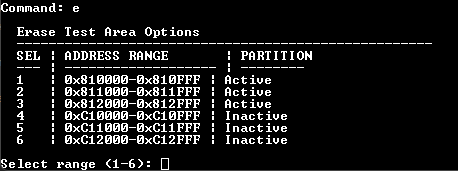
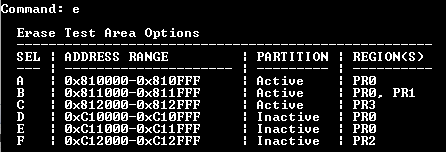
Update for new flash menus

diff --git a/dspic33ak512mps512_dual_partition_demo/labs/lab2_flash_protection_regions.md b/dspic33ak512mps512_dual_partition_demo/labs/lab2_flash_protection_regions.md
@@ -59,7 +59,7 @@ We'll be working with PR0 and PR1, where:
 ![Figure 5](./images/lab2_figure5.png)
 3. Enter 'e' to try and erase a page in a flash protection region. A menu will display with address options.<br>
 ![Figure 6](./images/lab2_figure6.png)
-4. Enter '2' to target the region where PR0 and PR1 overlap. 
+4. Enter 'B' to target the region where PR0 and PR1 overlap. 
 5. Despite PR0 having writes enabled, the erase fails because PR0 overlaps with PR1, which is write/erase protected.<br>
 ![Figure 7](./images/lab2_figure7.png)
 6. Reset the device by either pressing the reset button or the 'r' key in the terminal. Note that Partition 1 is once again the active partition. 
